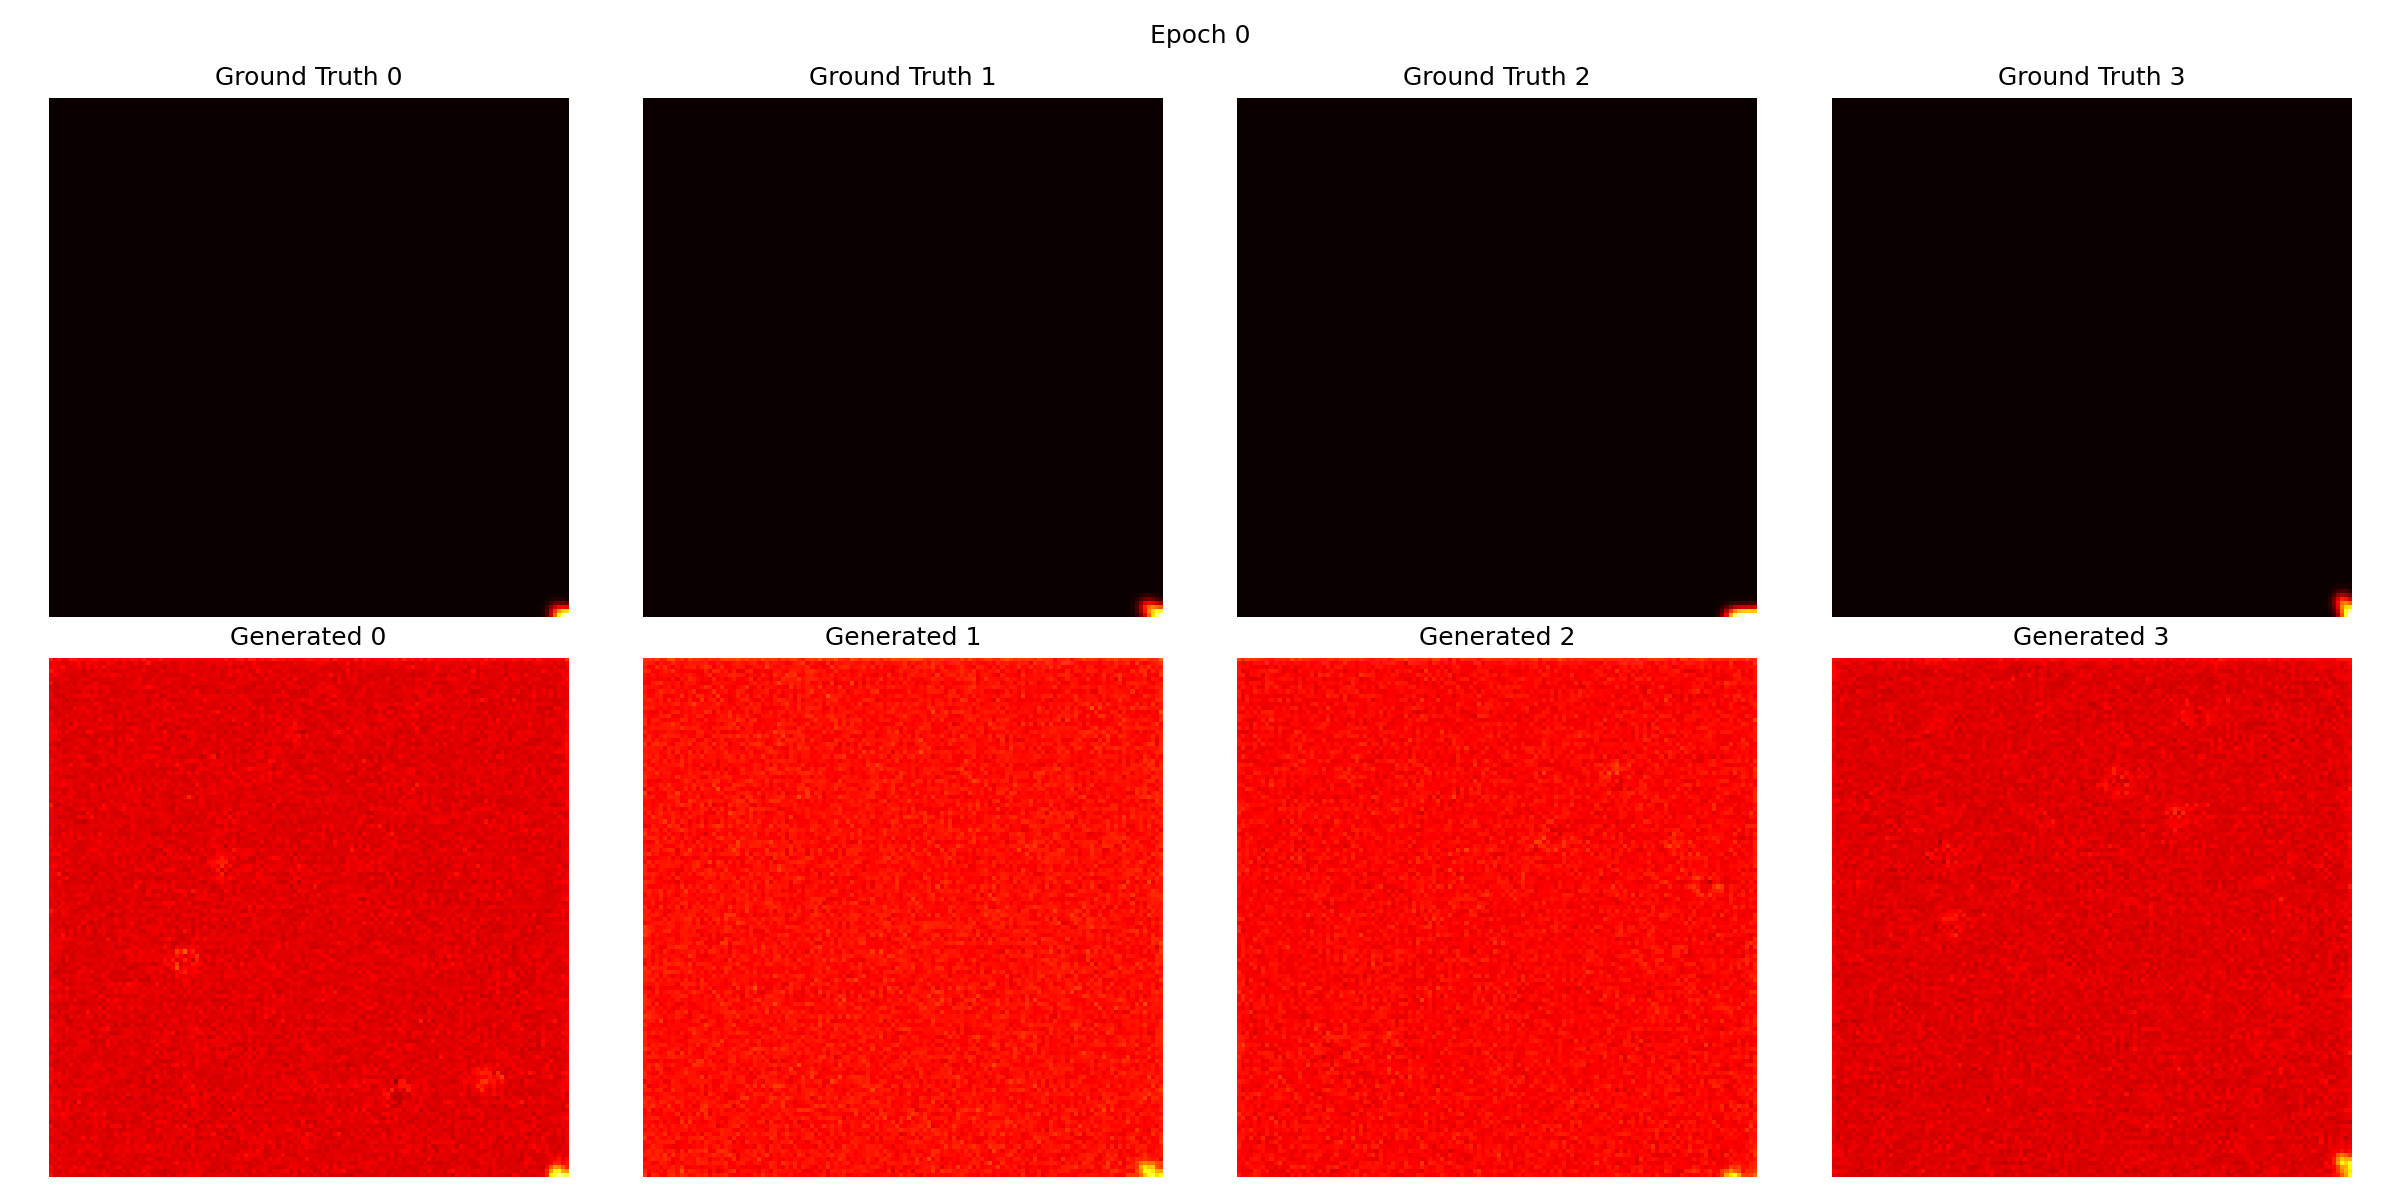
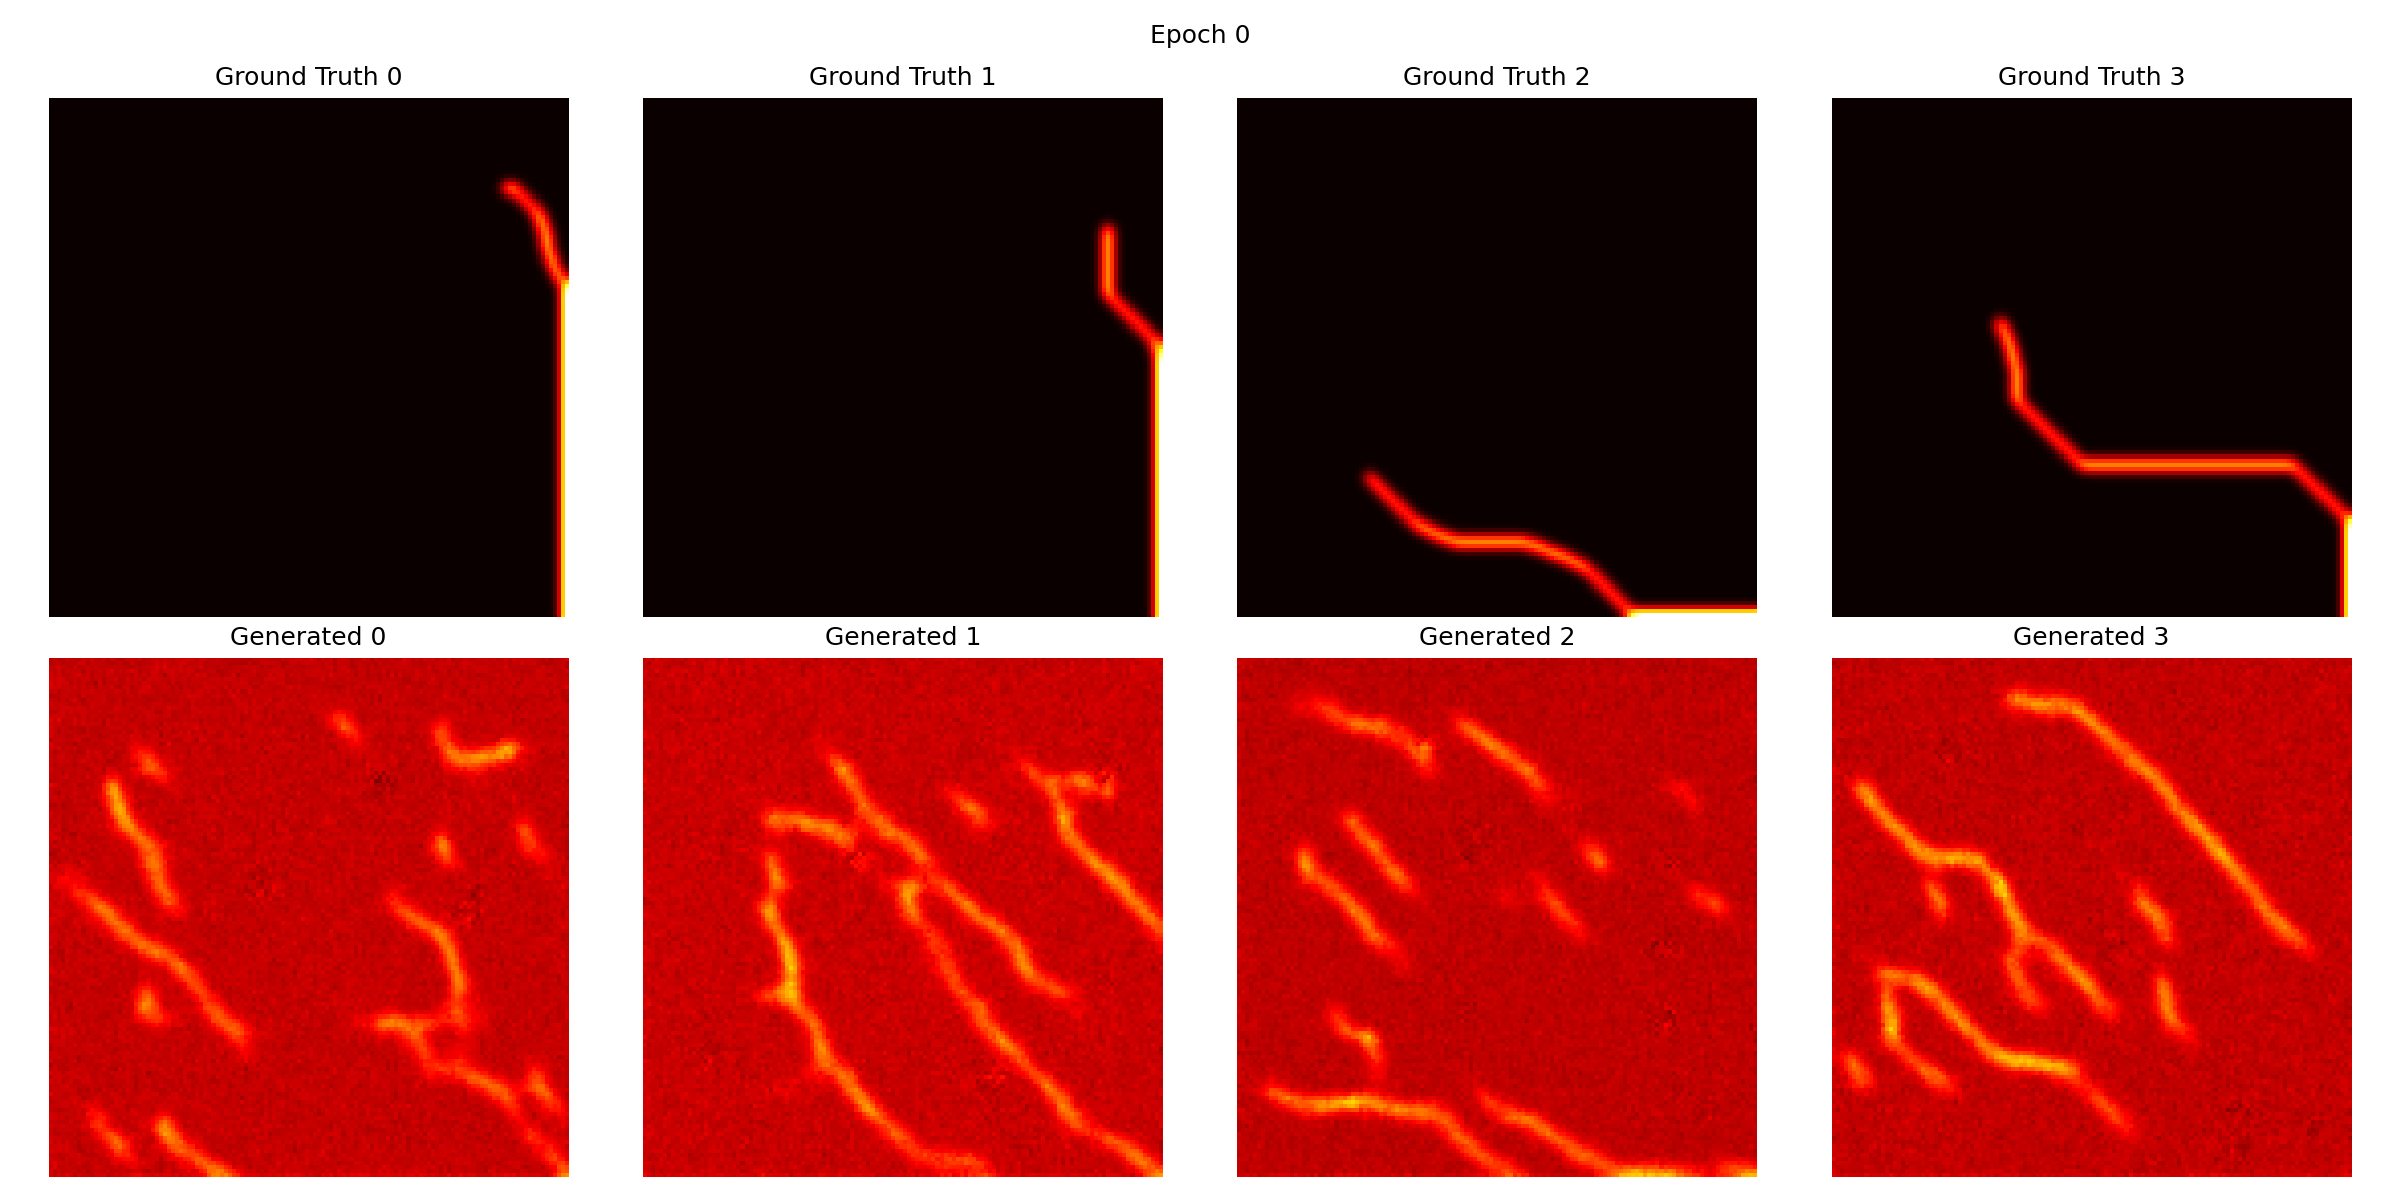
rework

diff --git a/DataGenerator/dataset.py b/DataGenerator/dataset.py
@@ -61,8 +61,8 @@ class CostmapDataset(Dataset):
 
         self.goal = np.array(
             [
-                np.random.randint(low=self.W - 7, high=self.H, dtype=int),
-                np.random.randint(low=self.W - 7, high=self.W, dtype=int),
+                np.random.randint(low=5, high=self.H-5, dtype=int),
+                np.random.randint(low=5, high=self.W-5, dtype=int),
             ]
         )
 
